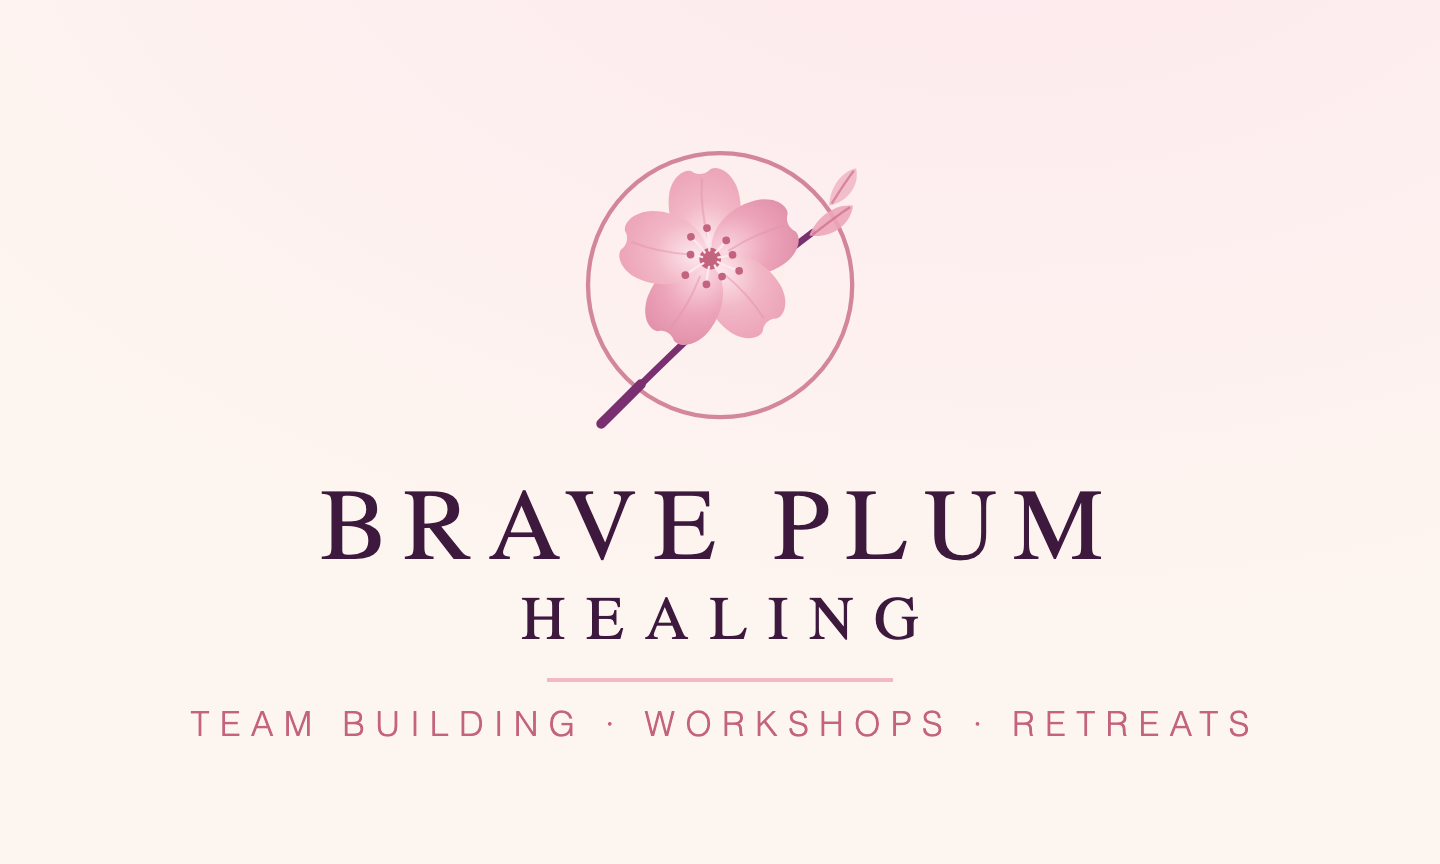
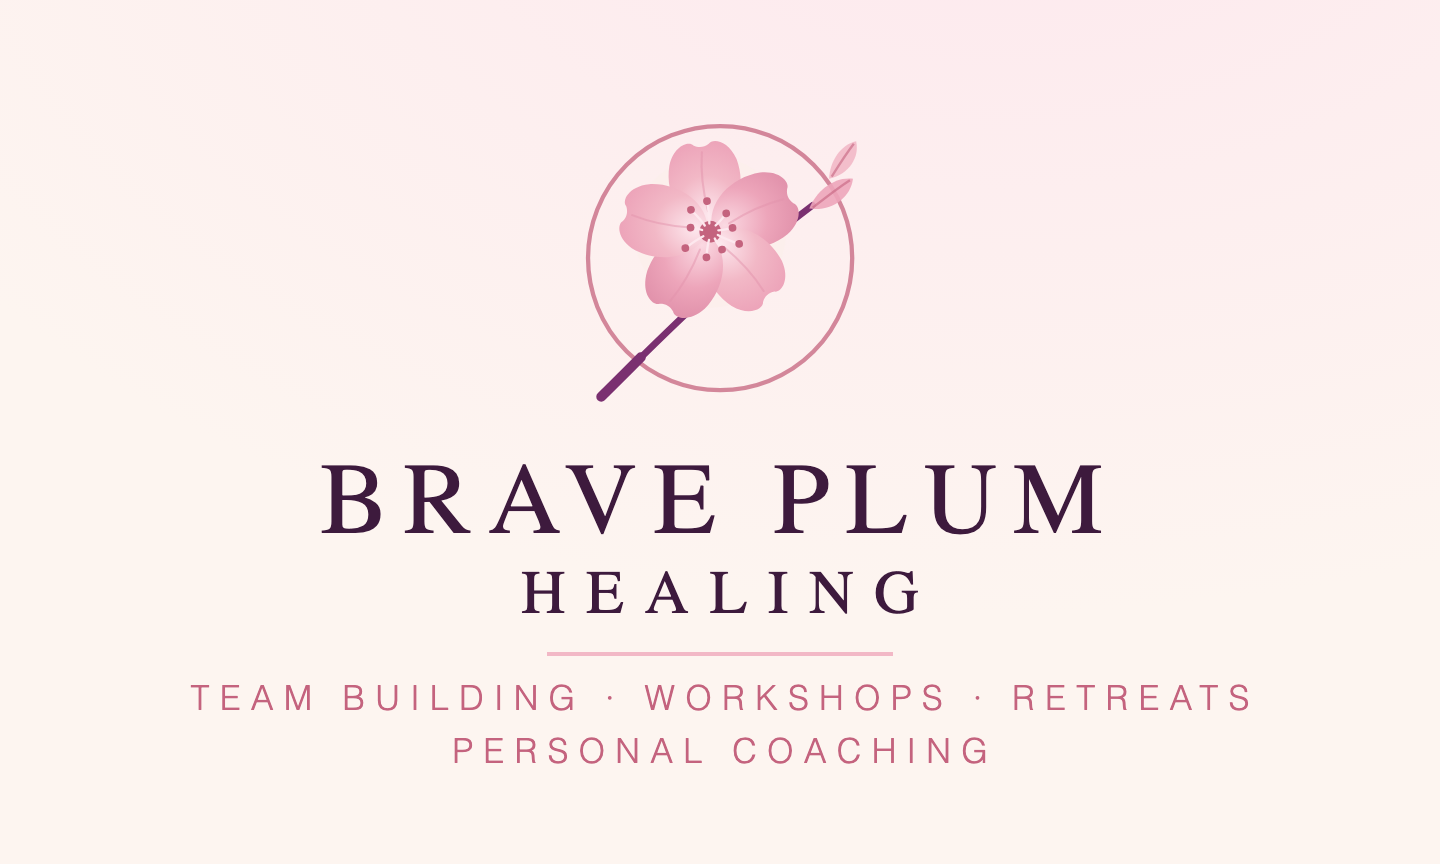
Card front: Personal Coaching joins the door list (second subtitle line)

Changed region(s): [[0.125, 0.5312, 0.7812, 0.9062], [0.4062, 0.125, 0.5938, 0.5], [0.6875, 0.7812, 0.875, 0.8438]]

diff --git a/outreach/business-cards/card-front.html b/outreach/business-cards/card-front.html
@@ -14,6 +14,7 @@ body { width:3.75in; height:2.25in; overflow:hidden;
 .name small { display:block; font-size:11.5pt; letter-spacing:.34em; margin-top:.02in;
   padding-left:.34em; /* optically center: trailing tracking */ }
 .rule { width:.9in; height:1px; background:#F2B8C6; margin:.07in auto .06in; }
+.sub2 { margin-top:.035in; letter-spacing:.34em; padding-left:.34em; }
 .sub { font-family:'Jost',sans-serif; font-weight:300; font-size:6.4pt;
   letter-spacing:.3em; color:#C4637E; text-transform:uppercase; padding-left:.3em; }
 </style></head><body>
@@ -22,5 +23,6 @@ body { width:3.75in; height:2.25in; overflow:hidden;
   <div class="name">BRAVE&nbsp;PLUM<small>HEALING</small></div>
   <div class="rule"></div>
   <div class="sub">Team Building &middot; Workshops &middot; Retreats</div>
+  <div class="sub sub2">Personal Coaching</div>
 </div>
 </body></html>
